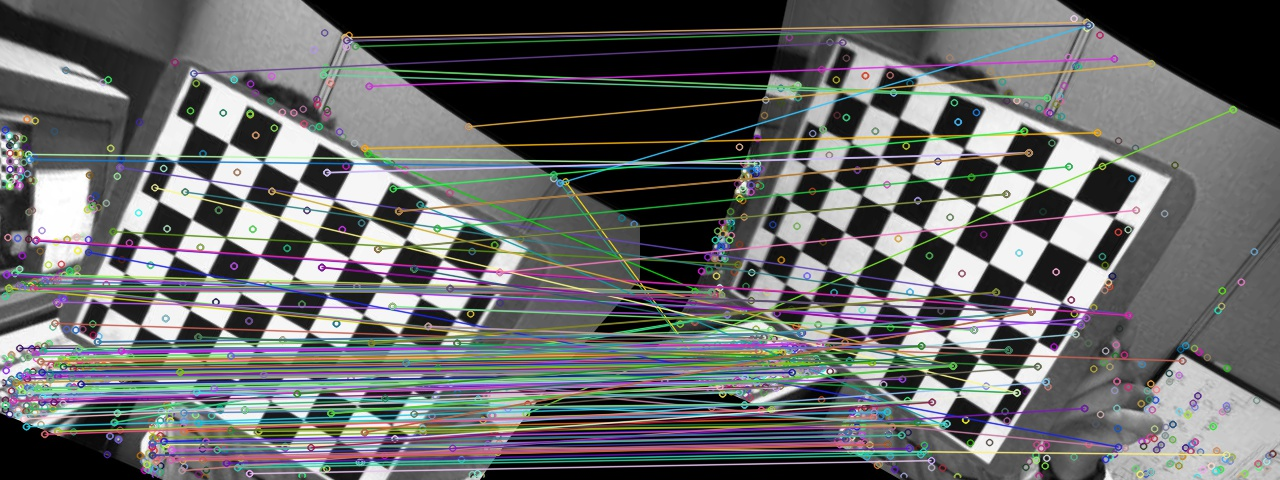
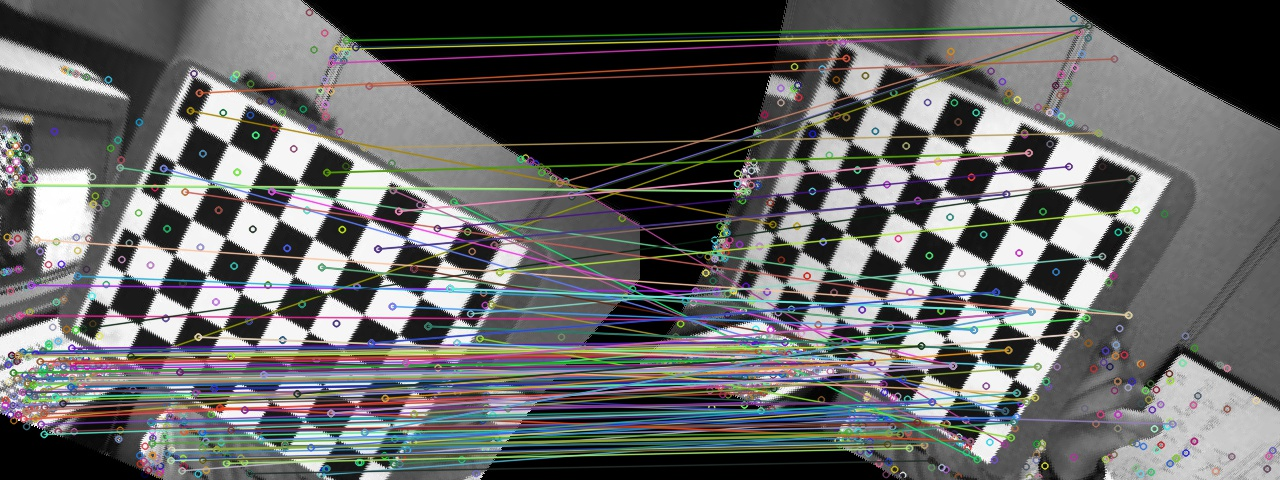
finished Binocular Basics part

diff --git a/calibrate_binocular.py b/calibrate_binocular.py
@@ -77,7 +77,7 @@ retval, cameraMatrix1, distCoeffs1, cameraMatrix2, distCoeffs2, R, T, E, F = cv2
                                                                                                  mtx_left, dist_left,
                                                                                                  mtx_right, dist_right,
                                                                                                  (w, h))
-print("================================stereo================================")
+print("================================Calibrate================================")
 print("Rotation matrix")
 print(R)
 print("Transformation matrix")
@@ -87,11 +87,19 @@ print(E)
 print("Fundamental matrix")
 print(F)
 
-# 进行立体更正
+# compute [T1,T2,Pn1,Pn2] = rectify(Po1,Po2)
 R1, R2, P1, P2, Q, validPixROI1, validPixROI2 = cv2.stereoRectify(mtx_left, dist_left,
                                                                   mtx_right, dist_right, (w, h), R, T)
 
-# 计算更正map
+print("================================Rectify================================")
+print("Rotation matrix 1")
+print(R1)
+print("Rotation matrix 2")
+print(R2)
+print("Projection matrix 1")
+print(P1)
+print("Projection matrix 2")
+print(P2)
 left_map1, left_map2 = cv2.initUndistortRectifyMap(mtx_left, dist_left, R1, P1, (w, h), cv2.CV_16SC2)
 
 right_map1, right_map2 = cv2.initUndistortRectifyMap(mtx_right, dist_right, R2, P2, (w, h), cv2.CV_16SC2)
@@ -103,16 +111,18 @@ rightpath = './data/right/right04.jpg'
 img1 = cv2.imread(leftpath)  # left
 img2 = cv2.imread(rightpath)  # right
 
-h, w = img1.shape[:2]
-newcameramtxl, roi = cv2.getOptimalNewCameraMatrix(mtx_left, dist_left, (w, h), 1, (w, h))
-img1 = cv2.undistort(img1, mtx_left, dist_left, None, newcameramtxl)
+# h, w = img1.shape[:2]
+# newcameramtxl, roi = cv2.getOptimalNewCameraMatrix(mtx_left, dist_left, (w, h), 1, (w, h))
+# img1 = cv2.undistort(img1, mtx_left, dist_left, None, newcameramtxl)
 
-h, w = img2.shape[:2]
-newcameramtxr, roi = cv2.getOptimalNewCameraMatrix(mtx_right, dist_right, (w, h), 1, (w, h))
-img2 = cv2.undistort(img2, mtx_right, dist_right, None, newcameramtxr)
+# h, w = img2.shape[:2]
+# newcameramtxr, roi = cv2.getOptimalNewCameraMatrix(mtx_right, dist_right, (w, h), 1, (w, h))
+# img2 = cv2.undistort(img2, mtx_right, dist_right, None, newcameramtxr)
 
-img1_rectified = cv2.remap(img1, left_map1, left_map2, interpolation=cv2.INTER_LINEAR)
-img2_rectified = cv2.remap(img2, right_map1, right_map2, interpolation=cv2.INTER_LINEAR)
+# rectify images by applying T1 and T2.
+# interpolation:INTER_NEAREST, INTER_LINEAR, INTER_AREA, INTER_CUBIC, INTER_LANCZOS4
+img1_rectified = cv2.remap(img1, left_map1, left_map2, interpolation=cv2.INTER_NEAREST) 
+img2_rectified = cv2.remap(img2, right_map1, right_map2, interpolation=cv2.INTER_NEAREST)
 
 cv2.imshow('image1 left', img1_rectified)
 cv2.waitKey(500)
@@ -133,10 +143,10 @@ cv2.destroyAllWindows()
 #     # rightpath = 'output/calibration_binocular/drawchessright' + ('0' if (i < 10) else '') + str(i) + '.jpg'
 #     # print(leftpath)
 #     # print(rightpath)
-#
+
 #     img1 = cv2.imread(leftpath)  # left
 #     img2 = cv2.imread(rightpath)  # right
-#
+
 #     # h, w = img1.shape[:2]
 #     # newcameramtxl, roi = cv2.getOptimalNewCameraMatrix(mtx_left, dist_left, (w, h), 1, (w, h))
 #     # img1 = cv2.undistort(img1, mtx_left, dist_left, None, newcameramtxl)
@@ -144,18 +154,18 @@ cv2.destroyAllWindows()
 #     # h, w = img2.shape[:2]
 #     # newcameramtxr, roi = cv2.getOptimalNewCameraMatrix(mtx_right, dist_right, (w, h), 1, (w, h))
 #     # img2 = cv2.undistort(img2, mtx_right, dist_right, None, newcameramtxr)
-#
-#     img1_rectified = cv2.remap(img1, left_map1, left_map2, interpolation=cv2.INTER_LINEAR)
-#     img2_rectified = cv2.remap(img2, right_map1, right_map2, interpolation=cv2.INTER_LINEAR)
-#
+
+#     img1_rectified = cv2.remap(img1, left_map1, left_map2, interpolation=cv2.INTER_NEAREST)
+#     img2_rectified = cv2.remap(img2, right_map1, right_map2, interpolation=cv2.INTER_NEAREST)
+
 #     cv2.imshow('image1 left', img1_rectified)
 #     cv2.waitKey(500)
 #     retval = cv2.imwrite('output/calibration_binocular/rectified' + leftpath[12:], img1_rectified)
 #     # if retval:
 #     #     print("Succeed")
-#
+
 #     cv2.imshow('image2 right', img2_rectified)
 #     cv2.waitKey(500)
 #     cv2.imwrite('output/calibration_binocular/rectified' + rightpath[13:], img2_rectified)
-#
+
 # cv2.destroyAllWindows()

diff --git a/epilines.py b/epilines.py
@@ -14,7 +14,7 @@ def Epipolar_geometry(leftpath, rightpath):
     :return:
     """
     # objP = np.zeros((6 * 7, 3), np.float32)
-    # objP[:, :2] = np.mgrid[0:7, 0:6].T.reshape(-1, 2) 
+    # objP[:, :2] = np.mgrid[0:7, 0:6].T.reshape(-1, 2)
     # patternSize = (7, 6)
     imgl = cv2.imread(leftpath, 0)  # queryimage # left image
     imgr = cv2.imread(rightpath, 0)  # trainimage # right image
@@ -50,7 +50,7 @@ def Epipolar_geometry(leftpath, rightpath):
     # goodMatches = []
     # minRatio = 1/3
     # for m,n in matches:
-    #     if m.distance / n.distance < minRatio:   
+    #     if m.distance / n.distance < minRatio:
     #         goodMatches.append([m])
     # sorted(goodMatches,key=lambda x:x[0].distance)
     # #绘制最优匹配点
@@ -227,17 +227,21 @@ def drawlines(img1, img2, lines, pts1, pts2):
 
 
 def main():
-    for id in range(1, 15):
-        if id == 10:
-            continue
-        # leftpath = './data/left/left' + ('0' if (id < 10) else '') + str(id) + '.jpg'
-        # rightpath = './data/right/right' + ('0' if (id < 10) else '') + str(id) + '.jpg'
-        leftpath = 'output/calibration_binocular/rectifiedleft' + ('0' if (id < 10) else '') + str(id) + '.jpg'
-        rightpath = 'output/calibration_binocular/rectifiedright' + ('0' if (id < 10) else '') + str(id) + '.jpg'
-        print(leftpath)
-        print(rightpath)
-        Epipolar_geometry(leftpath, rightpath)
-
+    # for id in range(1, 15):
+    #     if id == 10:
+    #         continue
+    #     # leftpath = './data/left/left' + ('0' if (id < 10) else '') + str(id) + '.jpg'
+    #     # rightpath = './data/right/right' + ('0' if (id < 10) else '') + str(id) + '.jpg'
+    #     leftpath = 'output/calibration_binocular/rectifiedleft' + ('0' if (id < 10) else '') + str(id) + '.jpg'
+    #     rightpath = 'output/calibration_binocular/rectifiedright' + ('0' if (id < 10) else '') + str(id) + '.jpg'
+    #     print(leftpath)
+    #     print(rightpath)
+    #     Epipolar_geometry(leftpath, rightpath)
+    leftpath = 'output/calibration_binocular/rectifiedleft04.jpg'
+    rightpath = 'output/calibration_binocular/rectifiedright04.jpg'
+    print(leftpath)
+    print(rightpath)
+    Epipolar_geometry(leftpath, rightpath)
 
 if __name__ == '__main__':
     main()

diff --git a/calibrate_binocular.m b/calibrate_binocular.m
@@ -1,0 +1,60 @@
+% from http://homepages.inf.ed.ac.uk/rbf/CVonline/LOCAL_COPIES/FUSIELLO/node18.html
+
+function [T1,T2,Pn1,Pn2] = rectify(Po1,Po2)
+   % RECTIFY compute  rectification  matrices  
+   %
+   % [T1,T2,Pn1,Pn2] = rectify(Po1,Po2) computes the
+   % rectifying projection matrices "Pn1", "Pn2", and
+   % the rectifying transformation of the retinal plane 
+   % "T1", "T2" (in homogeneous coordinate). The arguments  
+   % are the  two old projection matrices "Po1" and "Po2".
+
+   % focal lenght
+   % (extp(a,b) is external product of vectors a,b)
+   au = norm(extp(Po1(1,1:3)', Po1(3,1:3)'));
+   av = norm(extp(Po1(2,1:3)', Po1(3,1:3)'));
+
+   % optical centres
+   c1 = - inv(Po1(:,1:3))*Po1(:,4);
+   c2 = - inv(Po2(:,1:3))*Po2(:,4);
+
+   % retinal planes 
+   fl = Po1(3,1:3)';
+   fr = Po2(3,1:3)';
+
+   nn = extp(fl,fr);
+
+   % solve the four systems
+   A = [ [c1' 1]' [c2' 1]' [nn'  0]' ]';
+   [U,S,V] = svd(A);
+   r = 1/(norm(V([1 2 3],4)));
+   a3 = r * V(:,4);
+
+   A = [ [c1' 1]' [c2' 1]' [a3(1:3)' 0]' ]';
+   [U,S,V] = svd(A);
+   r = norm(av)/(norm(V([1 2 3],4)));
+   a2 = r * V(:,4);
+
+   A = [ [c1' 1]' [a2(1:3)' 0]' [a3(1:3)' 0]' ]';
+   [U,S,V] = svd(A);
+   r = norm(au)/(norm(V([1 2 3],4)));
+   a1 = r * V(:,4);
+   
+   A = [ [c2' 1]' [a2(1:3)' 0]' [a3(1:3)' 0]' ]';
+   [U,S,V] = svd(A);
+   r = norm(au)/(norm(V([1 2 3],4)));
+   b1 = r * V(:,4);
+
+   % adjustment
+   H = [
+     1 0 0 
+     0 1 0
+     0 0 1 ];
+
+   % rectifying  projection matrices
+   Pn1 = H * [ a1 a2 a3 ]';
+   Pn2 = H * [ b1 a2 a3 ]';
+
+   % rectifying image transformation
+   T1 = Pn1(1:3,1:3)* inv(Po1(1:3,1:3));
+   T2 = Pn2(1:3,1:3)* inv(Po2(1:3,1:3));

diff --git a/README.md b/README.md
@@ -92,7 +92,7 @@ Run `calibration.py`, you can see the calibrated and rectified picture in `outpu
 
 ![](data/right/right04.jpg)
 
-*Rectify:*
+*calibration and rectiﬁcation:*
 
 (Obviously, it succeed.)
 
@@ -112,7 +112,9 @@ After stereo correction, perform corresponding point analysis:
 
 ![](output/calibration_binocular/epilines_right04.jpg)
 
-We can find that the epipolar lines are parallel and prove that the rectiﬁcation is successful.
+We can find that the epipolar lines are parallel and the corresponding pixels are the same position in the two figures. It may prove that the rectiﬁcation is successful.
+
+
 
 # Modify 
 
@@ -121,4 +123,7 @@ We can find that the epipolar lines are parallel and prove that the rectiﬁcati
 3. 2019/05/09    Add `epilines.py`
 4. 2019/05/10    Add `calibrate_binocular.py`
 5. 2019/05/11    Modify `calibrate_binocular.py`, add  *rectiﬁcation* function
+6. 2019/05/12    Add `calibrate_binocular.m`, which is from [Tutorial on Rectification of Stereo Images]([http://homepages.inf.ed.ac.uk/rbf/CVonline/LOCAL_COPIES/FUSIELLO/node18.html](http://homepages.inf.ed.ac.uk/rbf/CVonline/LOCAL_COPIES/FUSIELLO/node18.html))
+
+
 
